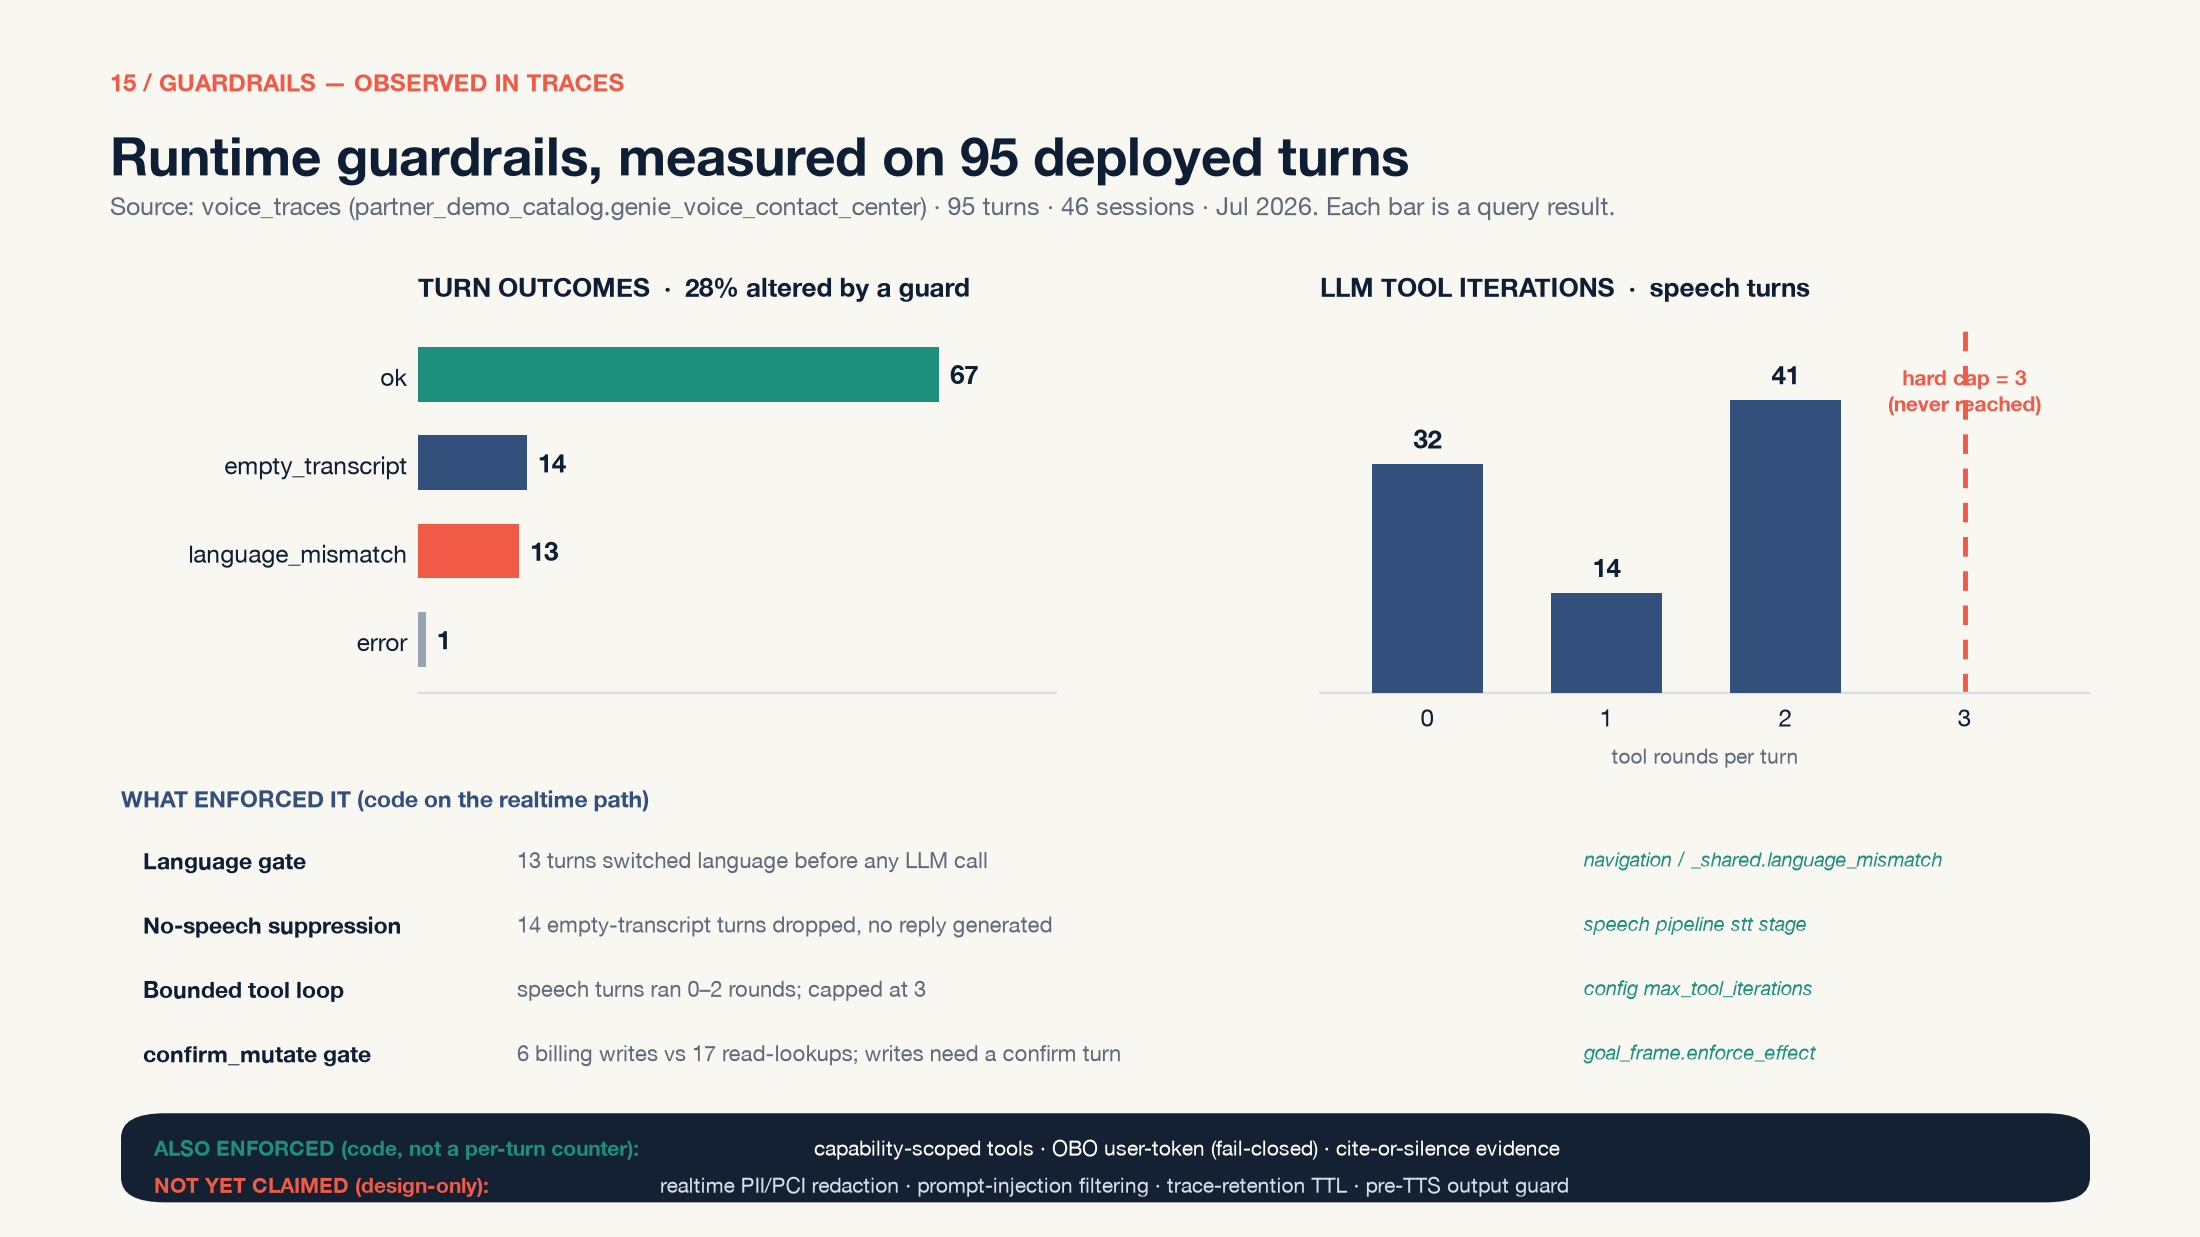
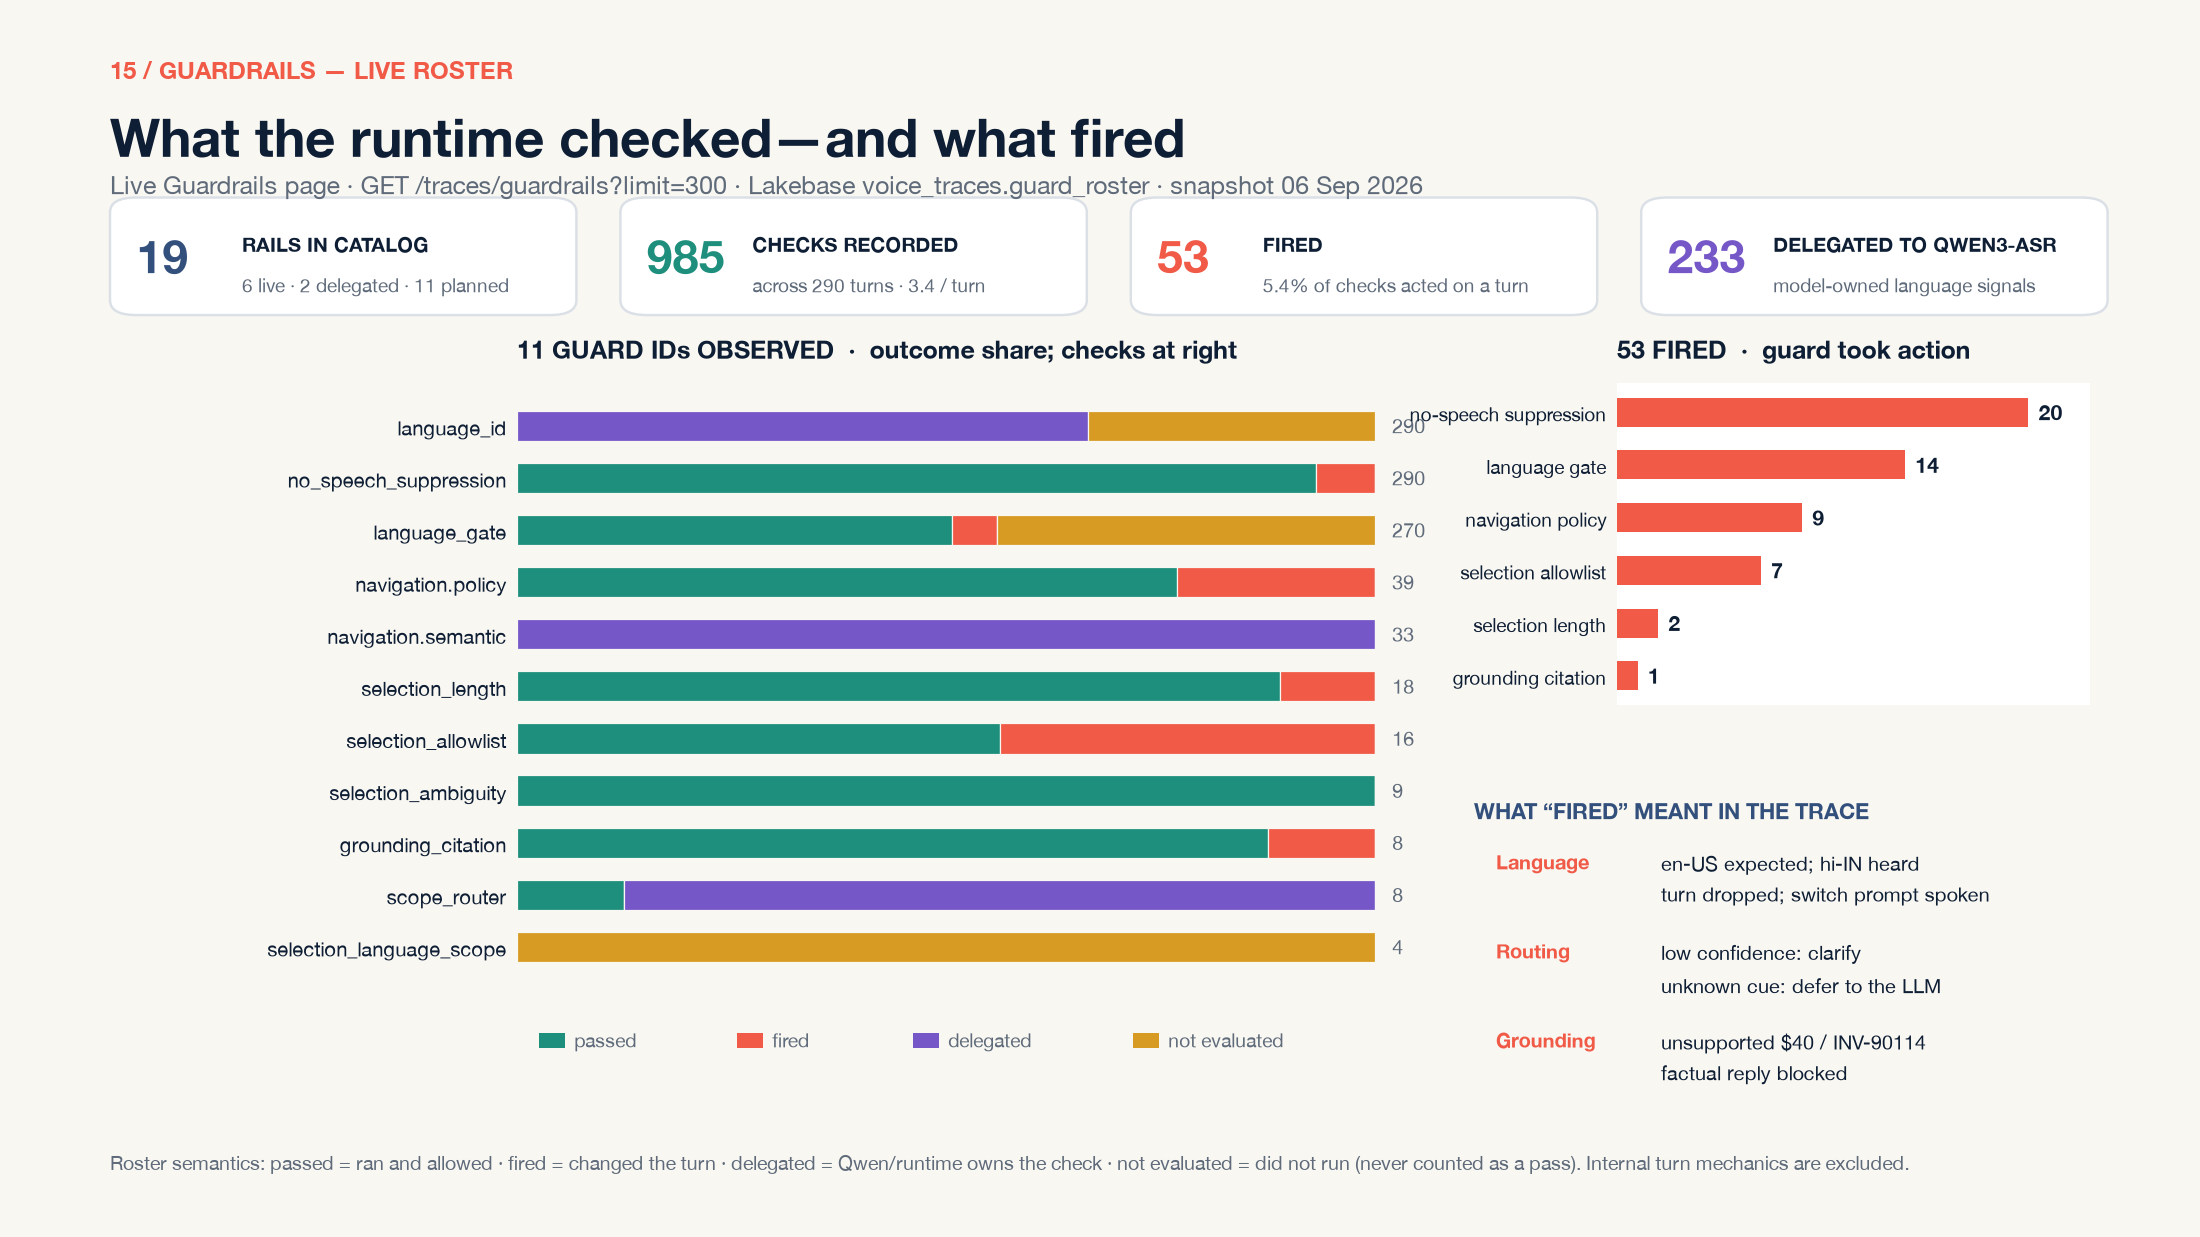
Rebuild guardrails slide from live Guardrails page rollup

diff --git a/docs/talks/cohere-multilingual-voice/charts/render_operations_guardrails.py b/docs/talks/cohere-multilingual-voice/charts/render_operations_guardrails.py
@@ -119,113 +119,151 @@ def render_deployment() -> None:
 
 
 def render_guardrails() -> None:
-    """Data-driven guardrail slide built from real stored voice traces.
+    """Render the same live rollup that drives the Guardrails page.
 
-    Source: partner_demo_catalog.genie_voice_contact_center.voice_traces
-    95 turns / 46 sessions (Jul 2026). Numbers below are query results, not
-    illustrations:
-      - turn status: ok 67, empty_transcript 14, language_mismatch 13, error 1
-      - speech-pipeline llm_iterations histogram: {0: 32, 1: 14, 2: 41}
-      - apply_billing_action_called turns: 6; account-lookup turns: 17
+    Snapshot source:
+      GET /traces/guardrails?limit=300
+      Genie Voice Databricks App, 2026-09-06
+
+    The endpoint reads the Lakebase ``voice_traces.guard_roster`` JSON array,
+    excludes entries whose declared surface is ``internal``, and aggregates the
+    remaining checks by guard ID, outcome and language.
     """
+    purple = "#7657c8"
+    amber = "#d79b24"
     fig = plt.figure(figsize=(10, 5.625), dpi=220)
     fig.patch.set_facecolor(OFF_WHITE)
 
-    fig.text(0.05, 0.945, "15 / GUARDRAILS \u2014 OBSERVED IN TRACES", color=CORAL,
+    fig.text(0.05, 0.955, "15 / GUARDRAILS — LIVE ROSTER", color=CORAL,
              fontsize=8.0, fontweight="bold", va="top")
-    fig.text(0.05, 0.90, "Runtime guardrails, measured on 95 deployed turns",
+    fig.text(0.05, 0.915, "What the runtime checked—and what fired",
              color=INK, fontsize=17.5, fontweight="bold", va="top")
-    fig.text(0.05, 0.845,
-             "Source: voice_traces (partner_demo_catalog.genie_voice_contact_center) \u00b7 "
-             "95 turns \u00b7 46 sessions \u00b7 Jul 2026. Each bar is a query result.",
+    fig.text(0.05, 0.862,
+             "Live Guardrails page · GET /traces/guardrails?limit=300 · "
+             "Lakebase voice_traces.guard_roster · snapshot 06 Sep 2026",
              color=MUTED, fontsize=8.2, va="top")
 
-    # ---- Panel 1: turn outcomes ----
-    ax1 = fig.add_axes([0.19, 0.44, 0.29, 0.30])
+    # ---- Headline numbers from the page ----
+    stats = [
+        ("19", "RAILS IN CATALOG", "6 live · 2 delegated · 11 planned", STEEL),
+        ("985", "CHECKS RECORDED", "across 290 turns · 3.4 / turn", TEAL),
+        ("53", "FIRED", "5.4% of checks acted on a turn", CORAL),
+        ("233", "DELEGATED TO QWEN3-ASR", "model-owned language signals", purple),
+    ]
+    for i, (value, label, sub, color) in enumerate(stats):
+        x = 0.05 + i * 0.232
+        fig.patches.append(
+            FancyBboxPatch(
+                (x, 0.745), 0.212, 0.095,
+                boxstyle="round,pad=0,rounding_size=0.012",
+                transform=fig.transFigure, linewidth=0.8,
+                edgecolor=GRID, facecolor=WHITE, zorder=2,
+            )
+        )
+        fig.text(x + 0.012, 0.815, value, color=color, fontsize=15.0,
+                 fontweight="bold", va="top", zorder=4)
+        fig.text(x + 0.060, 0.812, label, color=INK, fontsize=6.6,
+                 fontweight="bold", va="top", zorder=4)
+        fig.text(x + 0.060, 0.778, sub, color=MUTED, fontsize=6.2,
+                 va="top", zorder=4)
+
+    # ---- Outcome mix for every guard ID observed by the live endpoint ----
+    guards = [
+        # guard_id, runs, passed, fired, delegated, not_evaluated
+        ("language_id", 290, 0, 0, 193, 97),
+        ("no_speech_suppression", 290, 270, 20, 0, 0),
+        ("language_gate", 270, 137, 14, 0, 119),
+        ("navigation.policy", 39, 30, 9, 0, 0),
+        ("navigation.semantic", 33, 0, 0, 33, 0),
+        ("selection_length", 18, 16, 2, 0, 0),
+        ("selection_allowlist", 16, 9, 7, 0, 0),
+        ("selection_ambiguity", 9, 9, 0, 0, 0),
+        ("grounding_citation", 8, 7, 1, 0, 0),
+        ("scope_router", 8, 1, 0, 7, 0),
+        ("selection_language_scope", 4, 0, 0, 0, 4),
+    ]
+    ax1 = fig.add_axes([0.235, 0.20, 0.39, 0.49])
     ax1.set_facecolor(OFF_WHITE)
-    outcomes = [
-        ("ok", 67, TEAL),
-        ("empty_transcript", 14, STEEL),
-        ("language_mismatch", 13, CORAL),
-        ("error", 1, FAINT),
+    y_positions = list(range(len(guards)))[::-1]
+    series = [
+        ("passed", TEAL, 2),
+        ("fired", CORAL, 3),
+        ("delegated", purple, 4),
+        ("not evaluated", amber, 5),
     ]
-    ys = list(range(len(outcomes)))[::-1]
-    for (label, val, color), y in zip(outcomes, ys):
-        ax1.barh(y, val, height=0.62, color=color, zorder=3)
-        ax1.text(val + 1.4, y, str(val), va="center", ha="left", fontsize=8.4,
-                 color=INK, fontweight="bold")
-    ax1.set_yticks(ys)
-    ax1.set_yticklabels([o[0] for o in outcomes], fontsize=8.0, color=INK)
-    ax1.set_xlim(0, 82)
-    ax1.set_ylim(-0.6, len(outcomes) - 0.4)
-    ax1.set_title("TURN OUTCOMES  \u00b7  28% altered by a guard", loc="left",
-                  fontsize=8.6, fontweight="bold", color=INK, pad=8)
-    for s in ("top", "right", "left"):
-        ax1.spines[s].set_visible(False)
-    ax1.spines["bottom"].set_color(GRID)
-    ax1.tick_params(length=0)
+    left = [0.0] * len(guards)
+    for _, color, col in series:
+        widths = [row[col] / row[1] * 100 for row in guards]
+        ax1.barh(y_positions, widths, left=left, height=0.58,
+                 color=color, edgecolor=OFF_WHITE, linewidth=0.4)
+        left = [a + b for a, b in zip(left, widths)]
+    ax1.set_yticks(y_positions)
+    ax1.set_yticklabels([g[0] for g in guards], fontsize=6.6, color=INK)
+    ax1.set_xlim(0, 100)
     ax1.set_xticks([])
+    ax1.tick_params(length=0)
+    for side in ("top", "right", "left", "bottom"):
+        ax1.spines[side].set_visible(False)
+    ax1.set_title("11 GUARD IDs OBSERVED  ·  outcome share; checks at right",
+                  loc="left", fontsize=8.2, fontweight="bold", color=INK, pad=8)
+    for row, y in zip(guards, y_positions):
+        ax1.text(102, y, f"{row[1]}", color=MUTED, fontsize=6.5,
+                 va="center", ha="left", clip_on=False)
 
-    # ---- Panel 2: bounded tool loop ----
-    ax2 = fig.add_axes([0.60, 0.44, 0.35, 0.30])
-    ax2.set_facecolor(OFF_WHITE)
-    iters = [(0, 32), (1, 14), (2, 41)]
-    for x, val in iters:
-        ax2.bar(x, val, width=0.62, color=STEEL, zorder=3)
-        ax2.text(x, val + 1.4, str(val), ha="center", va="bottom", fontsize=8.4,
-                 color=INK, fontweight="bold")
-    ax2.axvline(3, color=CORAL, lw=1.6, ls=(0, (4, 3)), zorder=2)
-    ax2.text(3, 46, "hard cap = 3\n(never reached)", color=CORAL, fontsize=7.0,
-             ha="center", va="top", fontweight="bold")
-    ax2.set_xlim(-0.6, 3.7)
-    ax2.set_ylim(0, 52)
-    ax2.set_xticks([0, 1, 2, 3])
-    ax2.set_xticklabels(["0", "1", "2", "3"], fontsize=8.0, color=INK)
-    ax2.set_title("LLM TOOL ITERATIONS  \u00b7  speech turns", loc="left",
-                  fontsize=8.6, fontweight="bold", color=INK, pad=8)
-    for s in ("top", "right", "left"):
-        ax2.spines[s].set_visible(False)
-    ax2.spines["bottom"].set_color(GRID)
-    ax2.tick_params(length=0)
-    ax2.set_yticks([])
-    ax2.set_xlabel("tool rounds per turn", fontsize=6.8, color=MUTED)
+    # Outcome legend.
+    lx = [0.245, 0.335, 0.415, 0.515]
+    for x, (label, color, _) in zip(lx, series):
+        fig.patches.append(FancyBboxPatch(
+            (x, 0.153), 0.012, 0.012, boxstyle="square,pad=0",
+            transform=fig.transFigure, linewidth=0, facecolor=color))
+        fig.text(x + 0.016, 0.159, label, color=MUTED, fontsize=6.3, va="center")
 
-    # ---- mapping strip: observed signal -> enforcing mechanism (file) ----
-    fig.text(0.055, 0.365, "WHAT ENFORCED IT (code on the realtime path)",
-             color=STEEL, fontsize=7.4, fontweight="bold", va="top")
-    maps = [
-        ("Language gate", "13 turns switched language before any LLM call",
-         "navigation / _shared.language_mismatch"),
-        ("No-speech suppression", "14 empty-transcript turns dropped, no reply generated",
-         "speech pipeline stt stage"),
-        ("Bounded tool loop", "speech turns ran 0\u20132 rounds; capped at 3",
-         "config max_tool_iterations"),
-        ("confirm_mutate gate", "6 billing writes vs 17 read-lookups; writes need a confirm turn",
-         "goal_frame.enforce_effect"),
+    # ---- Fired checks (what acted on a turn) ----
+    fired = [
+        ("no-speech suppression", 20),
+        ("language gate", 14),
+        ("navigation policy", 9),
+        ("selection allowlist", 7),
+        ("selection length", 2),
+        ("grounding citation", 1),
     ]
-    top = 0.315
-    for i, (name, obs, ref) in enumerate(maps):
-        y = top - i * 0.052
-        fig.text(0.065, y, name, color=INK, fontsize=7.4, fontweight="bold", va="top")
-        fig.text(0.235, y, obs, color=MUTED, fontsize=7.2, va="top")
-        fig.text(0.72, y, ref, color=TEAL, fontsize=6.6, va="top", fontstyle="italic")
+    ax2 = fig.add_axes([0.735, 0.43, 0.215, 0.26])
+    fy = list(range(len(fired)))[::-1]
+    for (label, value), y in zip(fired, fy):
+        ax2.barh(y, value, height=0.55, color=CORAL)
+        ax2.text(value + 0.5, y, str(value), color=INK, fontsize=6.8,
+                 fontweight="bold", va="center")
+    ax2.set_yticks(fy)
+    ax2.set_yticklabels([f[0] for f in fired], fontsize=6.2, color=INK)
+    ax2.set_xlim(0, 23)
+    ax2.set_xticks([])
+    ax2.tick_params(length=0)
+    for side in ("top", "right", "left", "bottom"):
+        ax2.spines[side].set_visible(False)
+    ax2.set_title("53 FIRED  ·  guard took action",
+                  loc="left", fontsize=8.2, fontweight="bold", color=INK, pad=8)
 
-    # ---- honesty band ----
-    band = FancyBboxPatch((0.055, 0.028), 0.895, 0.072,
-                          boxstyle="round,pad=0,rounding_size=0.02",
-                          transform=fig.transFigure, linewidth=0,
-                          facecolor=NAVY, zorder=2)
-    fig.patches.append(band)
-    fig.text(0.07, 0.082, "ALSO ENFORCED (code, not a per-turn counter):", color=TEAL,
-             fontsize=6.8, fontweight="bold", va="top")
-    fig.text(0.37, 0.082,
-             "capability-scoped tools \u00b7 OBO user-token (fail-closed) \u00b7 cite-or-silence evidence",
-             color=WHITE, fontsize=6.9, va="top")
-    fig.text(0.07, 0.052, "NOT YET CLAIMED (design-only):", color=CORAL,
-             fontsize=6.8, fontweight="bold", va="top")
-    fig.text(0.30, 0.052,
-             "realtime PII/PCI redaction \u00b7 prompt-injection filtering \u00b7 trace-retention TTL \u00b7 pre-TTS output guard",
-             color="#d7dee8", fontsize=6.9, va="top")
+    # Trace-backed examples in plain English.
+    fig.text(0.67, 0.355, "WHAT “FIRED” MEANT IN THE TRACE", color=STEEL,
+             fontsize=7.2, fontweight="bold", va="top")
+    examples = [
+        ("Language", "en-US expected; hi-IN heard\nturn dropped; switch prompt spoken"),
+        ("Routing", "low confidence: clarify\nunknown cue: defer to the LLM"),
+        ("Grounding", "unsupported $40 / INV-90114\nfactual reply blocked"),
+    ]
+    for i, (kind, text) in enumerate(examples):
+        y = 0.313 - i * 0.072
+        fig.text(0.68, y, kind, color=CORAL, fontsize=6.6,
+                 fontweight="bold", va="top")
+        fig.text(0.755, y, text, color=INK, fontsize=6.5, va="top",
+                 linespacing=1.35)
+
+    fig.text(
+        0.05, 0.06,
+        "Roster semantics: passed = ran and allowed · fired = changed the turn · delegated = Qwen/runtime owns the check · "
+        "not evaluated = did not run (never counted as a pass). Internal turn mechanics are excluded.",
+        color=MUTED, fontsize=6.4, va="center",
+    )
 
     fig.savefig(OUT / "runtime_guardrails.png", facecolor=OFF_WHITE, dpi=220)
     plt.close(fig)
